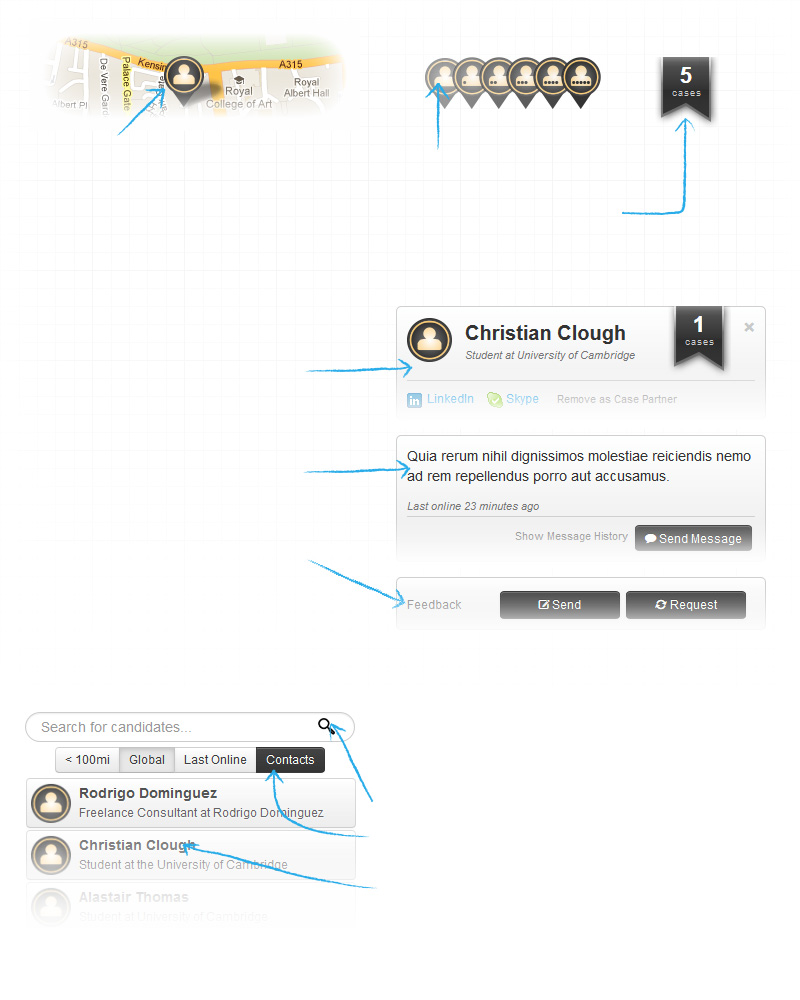
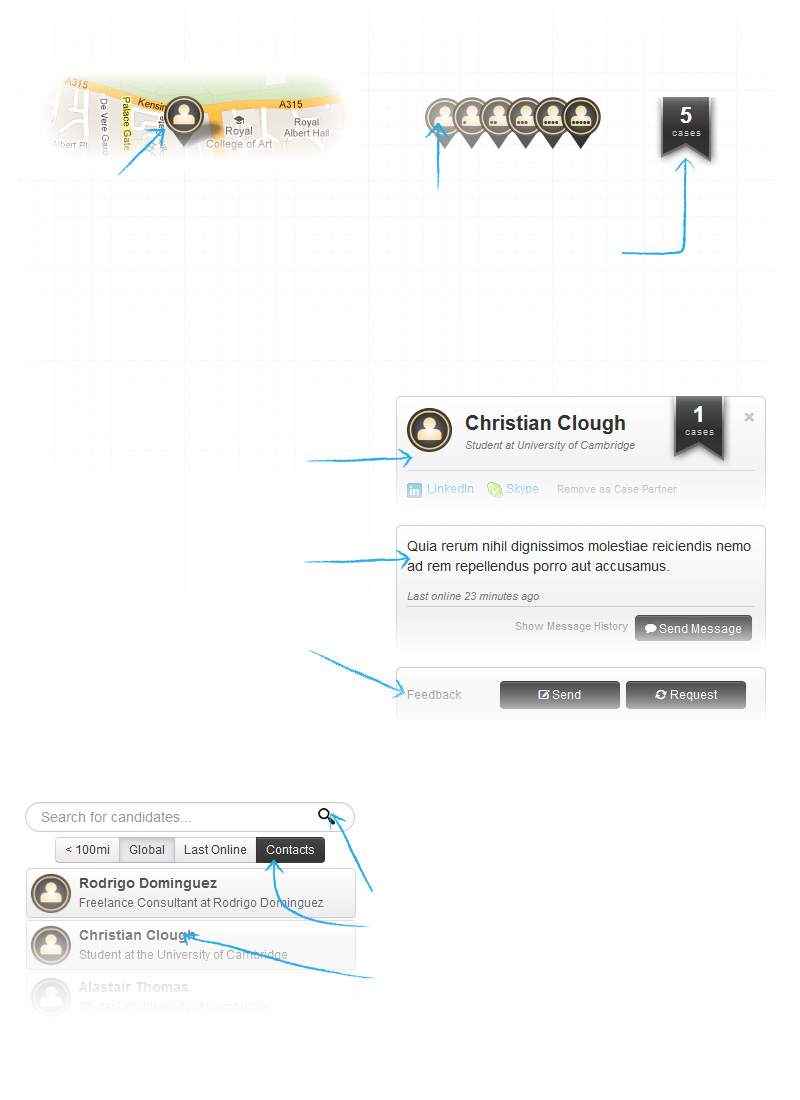
little

diff --git a/app/assets/stylesheets/app.css.scss b/app/assets/stylesheets/app.css.scss
@@ -35,6 +35,7 @@ body {
 }
 
 footer {
+
   padding-top:15px;
   a{
     color:black;
@@ -60,6 +61,7 @@ textarea {
 .search-query {
   background: white url(icons/search.png) no-repeat 94% 5px;
   padding-right: 17px;
+  padding-left:10px;
 }
 
 .simple_form {
@@ -74,7 +76,8 @@ textarea {
 }
 
 .container {
-  &.main{
+    &.main{
+    height:100%;
     /* gives twitter like white translucent background */
     background: url(app/white-wash.png);
   }
@@ -449,7 +452,7 @@ textarea {
       .set-1e { position:absolute; top:680px; left:40px; width: 300px;}
       .set-1f { position: absolute; top:680px; left:410px; width: 370px;}
 
-#modal_help_page_2 { height:1000px; width:800px; background: url('help/2.jpg');  position:relative; }
+#modal_help_page_2 { height:1100px; width:800px; background: url('help/2.jpg');  position:relative; }
       .set-2a { position: absolute; top:150px; left:40px; width:330px;}
       .set-2b { position: absolute; top:150px; left:400px; width:370px;}
       .set-2c { position: absolute; left: 40px; top: 280px; width: 335px;}
@@ -462,14 +465,14 @@ textarea {
       .set-3b { position: absolute; top:400px; left:40px; width:330px;}
       .set-3c { position: absolute; top:690px; left:40px; width:330px;}
 
-#modal_help_page_4 { height:1000px; width:800px; background: url('help/4.jpg');  position:relative; }
+#modal_help_page_4 { height:1100px; width:800px; background: url('help/4.jpg');  position:relative; }
       .set-4a { position: absolute; left: 40px; top: 230px; width: 725px;}
       .set-4b { position: absolute; left: 40px; top: 250px; width:350px;}
       .set-4c { position: absolute; left: 400px; top: 250px; width: 350px;}
       .set-4d { position: absolute; left: 40px; top: 480px; width: 309px;}
       .set-4e { position: absolute; left: 470px; top: 780px; width: 309px;}
 
-#modal_help_page_5 { height:1000px; width:800px; background: url('help/5.jpg');  position:relative; }
+#modal_help_page_5 { height:1200px; width:800px; background: url('help/5.jpg');  position:relative; }
       .set-5a { position: absolute; left: 465px; top: 90px; width: 340px; }
       .set-5b {position: absolute;  left: 40px; top: 343px; width: 330px; }
       .set-5c {position: absolute;  left: 40px; top: 800px; width: 330px; }

diff --git a/app/assets/stylesheets/static_pages.css.scss b/app/assets/stylesheets/static_pages.css.scss
@@ -107,12 +107,12 @@ $blue_linkedin: #006699;
   &.feedback {
     position:absolute;
     margin-top:310px;
-    margin-left:35px;    
+    margin-left:30px;    
   }
   &.analysis{
     position:absolute;
-    margin-top:310px;
-    margin-left:95px;    
+    margin-top:330px;
+    margin-left:90px;    
   }
   &.testimonials {
     position:absolute;
@@ -177,7 +177,7 @@ $blue_linkedin: #006699;
 
   nav { 
     position: relative; 
-    left:-10px; }
+    left:30px; }
     
   nav ul {
     list-style: none;
